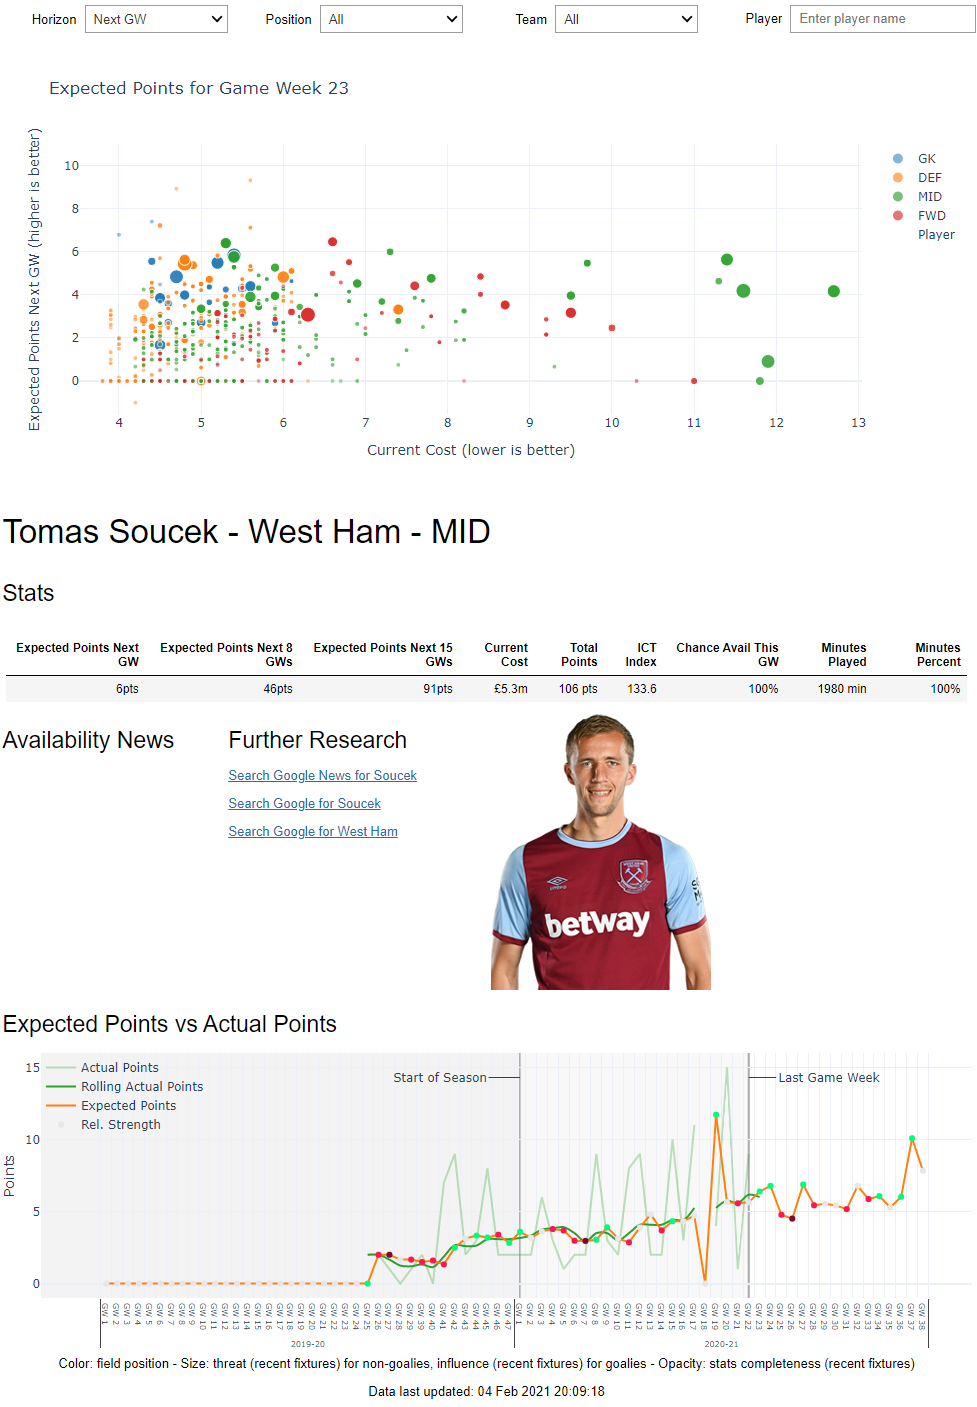
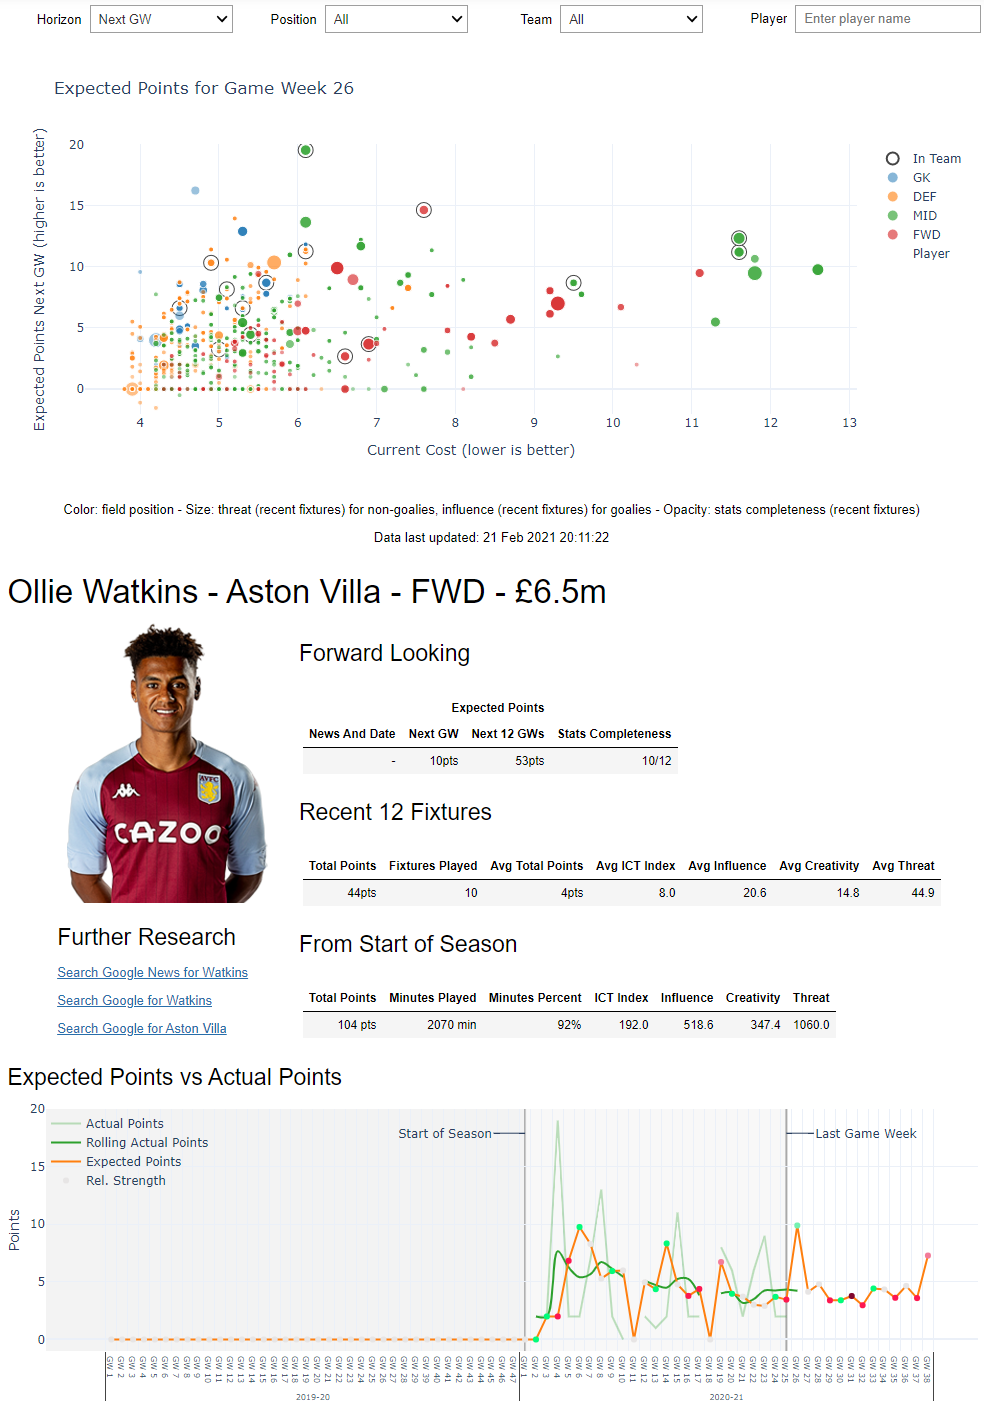
Fixes #15, #14: Updated player detail chart to added ICT averages and other data points to improve consistency with overall chart.

diff --git a/player_chart.py b/player_chart.py
@@ -7,6 +7,7 @@ from IPython.display import display
 from typing import Callable
 import traceback
 import urllib
+from collections import OrderedDict
 
 pio.templates.default = 'plotly_white'
 
@@ -16,6 +17,7 @@ MIN_POINT_SIZE = 5
 MIN_OPACITY = 0.4
 POSITION_COLORS = {'GK': 'rgba(31, 119, 180, 1)', 'DEF': 'rgba(255, 127, 14, 1)', 'MID': 'rgba(44, 160, 44, 1)', 'FWD': 'rgba(214, 39, 40, 1)'}
 FDR_COLOR_SCALE = [[0.0, 'rgb(1, 252, 122)'], [0.33, 'rgb(231, 231, 231)'], [0.66, 'rgb(255, 23, 81)'], [1.0, 'rgb(128, 7, 45)']]
+
 
 def interactive(func: Callable, arg_widgets_map: dict) -> Widget:
     """
@@ -103,12 +105,12 @@ def player_strength_by_horizon(player_eps: DF, players_gw_eps: DF, horizon: str,
             player = None
             player_code = None
             for ind in points.point_inds:
-                player = player_eps.iloc[ind]
-                player_code = player_eps.index[ind]
+                player = player_eps_chart.iloc[ind]
+                player_code = player_eps_chart.index[ind]
 
             if player is not None:
                 player_gw_eps = players_gw_eps.loc[player_code]
-                detail.children = tuple([display_player(player, player_gw_eps, ctx)])
+                detail.children = tuple([display_player(player, player_gw_eps, horizon, ctx)])
             else:
                 detail.children = tuple([])
 
@@ -129,8 +131,9 @@ def player_strength_by_horizon(player_eps: DF, players_gw_eps: DF, horizon: str,
     def get_player_eps_chart(player_eps: DF) -> DF:
         return (player_eps[
                     ['Name', 'Name and Short Team', 'Long Name', 'Team Name', 'Field Position', 'Current Cost', 'Total Points', 'Minutes Percent',
-                     'News And Date', 'ICT Index', 'Minutes Played', 'Avg Threat Recent Fixtures', 'Avg Influence Recent Fixtures',
-                     'Chance Avail This GW', 'Stats Completeness Percent', 'Profile Picture', 'Team Last Updated', 'Player Last Updated']
+                     'News And Date', 'Minutes Played', 'Total Points Recent Fixtures', 'Avg Total Points Recent Fixtures', 'Avg ICT Index Recent Fixtures',
+                     'Avg Influence Recent Fixtures', 'Avg Creativity Recent Fixtures', 'Avg Threat Recent Fixtures', 'ICT Index', 'Influence', 'Creativity', 'Threat',
+                     'Chance Avail This GW', 'Stats Completeness', 'Stats Completeness Percent', 'Profile Picture', 'Team Last Updated', 'Player Last Updated']
                     + [col for col in player_eps.columns if col.startswith('Expected Points ') or col.startswith('Fixtures ')]
                     + (['In Team?'] if 'In Team?' in player_eps.columns else [])]
                 # Add visualisation columns that need to be calculated on the unfiltered set.
@@ -139,8 +142,14 @@ def player_strength_by_horizon(player_eps: DF, players_gw_eps: DF, horizon: str,
                                                                   df.groupby('Field Position')['Avg Threat Recent Fixtures'].transform(lambda x: x / x.max() * MAX_POINT_SIZE),
                                                                   df['Avg Influence Recent Fixtures'] / df['Avg Influence Recent Fixtures'].max() * MAX_POINT_SIZE), MIN_POINT_SIZE)}))
 
+    def get_player_eps_formatted(player_eps_chart: DF) -> DF:
+        return (player_eps_chart
+                .pipe(ctx.dd.format)
+                [player_eps_chart.columns]
+                .astype(str))
+
     def get_labels(player_eps_chart: DF) -> S:
-        player_eps_formatted = player_eps_chart.pipe(ctx.dd.format)[player_eps_chart.columns].astype(str)
+        player_eps_formatted = player_eps_chart.pipe(get_player_eps_formatted)
 
         return (player_eps_formatted['Name and Short Team']
                 + ', ' + player_eps_formatted['Field Position']
@@ -148,9 +157,9 @@ def player_strength_by_horizon(player_eps: DF, players_gw_eps: DF, horizon: str,
                 + '<br>Exp. Points: ' + player_eps_formatted[f'Expected Points {horizon}']
                 + ', Total Points: ' + player_eps_formatted['Total Points']
                 + '<br>Minutes Percent: ' + player_eps_formatted['Minutes Percent']
-                + ', Stats Completeness (Recent Fixtures): ' + player_eps_formatted['Fixtures Played Recent Fixtures'] + f'/{ctx.player_fixtures_look_back}'
-                + np.where(player_eps_formatted['Field Position'] != 'GK', '<br>Average Threat (Recent Fixtures): ' + player_eps_formatted['Avg Threat Recent Fixtures'],
-                    '<br>Average Influence (Recent Fixtures): ' + player_eps_formatted['Avg Influence Recent Fixtures'])
+                + f', Stats Completeness (Recent {ctx.player_fixtures_look_back} Fixtures): ' + player_eps_formatted['Stats Completeness']
+                + np.where(player_eps_formatted['Field Position'] != 'GK', f'<br>Average Threat (Recent {ctx.player_fixtures_look_back} Fixtures): ' + player_eps_formatted['Avg Threat Recent Fixtures'],
+                           f'<br>Avg Influence (Recent {ctx.player_fixtures_look_back} Fixtures): ' + player_eps_formatted['Avg Influence Recent Fixtures'])
                 + ', ICT: ' + player_eps_formatted['ICT Index']
                 + '<br>Next: ' + player_eps_formatted[f'Fixtures Next 8 GWs'].map(lambda v: break_text(v, 4))
                 + '<br>News: ' + player_eps_formatted['News And Date']
@@ -184,7 +193,7 @@ def player_strength_by_horizon(player_eps: DF, players_gw_eps: DF, horizon: str,
     chart = FigureWidget(
         traces,
         layout={
-            'title': f'Expected Points from Game Week {ctx.next_gw} for {horizon}' if horizon != 'Next GW' else f'Expected Points for Game Week {ctx.next_gw}' ,
+            'title': f'Expected Points from Game Week {ctx.next_gw} for {horizon}' if horizon != 'Next GW' else f'Expected Points for Game Week {ctx.next_gw}',
             'xaxis': dict(title='Current Cost (lower is better)', showspikes=True, range=[min_cost, max_cost]),
             'yaxis': dict(title=f'Expected Points {horizon} (higher is better)', showspikes=True, range=[min_eps, max_eps]),
             'hovermode': 'closest',
@@ -205,7 +214,7 @@ def player_strength_by_horizon(player_eps: DF, players_gw_eps: DF, horizon: str,
 
     out = Output()
     detail = VBox([])
-    chart_and_detail = VBox([message, out, chart, detail, data_quality])
+    chart_and_detail = VBox([message, out, chart, data_quality, detail])
 
     return chart_and_detail
 
@@ -235,22 +244,54 @@ def show_eps_vs_cost(player_gw_next_eps_ext: DF, players_gw_team_eps_ext: DF, te
     return VBox([selectors, out])
 
 
-def display_player(player: S, player_gw_eps: DF, ctx: Context) -> Widget:
+def display_player(player: S, player_gw_eps: DF, horizon: str, ctx: Context) -> Widget:
+    def display_df(df_output: pd.DataFrame):
+        df_style = df_output.style
+        df_style = df_style.hide_index()
+
+        out_df = Output()
+        with out_df:
+            display(df_style)
+
+        return out_df
+
     def display_header(player: S) -> Widget:
         return HTML(
-            f'<h1>{player["Long Name"]} - {player["Team Name"]} - {player["Field Position"]}</h1>')
+            f'<h1>{player["Long Name"]} - {player["Team Name"]} - {player["Field Position"]} - {player["Current Cost"]}</h1>')
+
+    def get_player_fwd_stats(player: S, ctx: Context) -> DF:
+        next_gws = list(OrderedDict.fromkeys([list(ctx.next_gw_counts)[0], horizon, list(ctx.next_gw_counts)[-1]]))
+
+        return (  # Create data frame from series
+            DF(player).T
+                # Format columns
+                .pipe(ctx.dd.format)
+                # Select columns
+            [['News And Date'] + [f'Expected Points {next_gw}' for next_gw in next_gws] + ['Stats Completeness']]
+                # Create multi-level colums for Expected Points
+                .pipe(lambda df: df.T.set_index(
+                pd.MultiIndex.from_tuples([('Expected Points' if 'Expected Points' in col else '',
+                                            col.replace('Expected Points ', '')) for col in df.columns]))
+                      .T))
 
     def display_stats(player: S) -> Widget:
-        return VBox([HTML(
-            f'<h3>Stats</h3>'),
+        return VBox([
+            HTML(f'<h3>Forward Looking</h3>'),
             player
-                .pipe(get_player_stats, ctx)
+                .pipe(get_player_fwd_stats, ctx)
+                .pipe(display_df),
+            HTML(f'<h3>Recent {ctx.player_fixtures_look_back} Fixtures</h3>'),
+            player
+                .pipe(DF).T[['Total Points Recent Fixtures', 'Fixtures Played Recent Fixtures',
+                             'Avg Total Points Recent Fixtures', 'Avg ICT Index Recent Fixtures', 'Avg Influence Recent Fixtures',
+                             'Avg Creativity Recent Fixtures', 'Avg Threat Recent Fixtures']]
+                .pipe(ctx.dd.format)
+                .pipe(lambda df: df.rename(columns={x: x.replace(' Recent Fixtures', '') for x in df.columns}))
+                .pipe(display_df),
+            HTML(f'<h3>From Start of Season</h3>'),
+            player
+                .pipe(DF).T[['Total Points', 'Minutes Played', 'Minutes Percent', 'ICT Index', 'Influence', 'Creativity', 'Threat']]
                 .pipe(ctx.dd.display, footer=False, descriptions=False, index=False)])
-
-    def display_news(player: S) -> Widget:
-        return HTML(value=
-                            f'<h3>Availability News</h3>'
-                            f'<p>{player["News And Date"]}</p>')
 
     def display_research(player: S) -> Widget:
         player_query = urllib.parse.quote(f'{player["Long Name"]} FPL')
@@ -264,7 +305,7 @@ def display_player(player: S, player_gw_eps: DF, ctx: Context) -> Widget:
          f'<a href="https://www.google.co.uk/search?q={team_query}&ie=UTF-8" target="_blank">Search Google for {player["Team Name"]}</a>'
          '</div>'))
 
-    def display_player(player: S) -> Widget:
+    def display_player_pic(player: S) -> Widget:
         img_url = f'https://resources.premierleague.com/premierleague/photos/players/110x140/p{player["Profile Picture"].split(".")[0]}.png'
         return HTML(layout=Layout(padding='0 0 0 50px'), value=f'<img src="{img_url}" />')
 
@@ -281,7 +322,6 @@ def display_player(player: S, player_gw_eps: DF, ctx: Context) -> Widget:
                 .assign(**{'Season Game Week': lambda df: df['Season'] + ', GW ' + df['Game Week']}))
 
         x_axis = [data['Season'], data['Game Week']]
-        # x_axis = data['Season Game Week']
 
         eps_trace = Scatter(x=x_axis,
                             y=data['Expected Points'],
@@ -336,7 +376,7 @@ def display_player(player: S, player_gw_eps: DF, ctx: Context) -> Widget:
             ]
         )
         return VBox([HTML('<h3>Expected Points vs Actual Points</h3>'),
-                             FigureWidget([ftp_trace, ftpr_trace, eps_trace, fs_trace], layout=layout)])
+                     FigureWidget([ftp_trace, ftpr_trace, eps_trace, fs_trace], layout=layout)])
 
     if player is None:
         return None
@@ -345,8 +385,9 @@ def display_player(player: S, player_gw_eps: DF, ctx: Context) -> Widget:
 
     return VBox([
         display_header(player_formatted),
-        display_stats(player),
-        HBox([display_news(player_formatted),
-                      display_research(player), display_player(player)]),
+        HBox([
+            VBox([display_player_pic(player), display_research(player)], layout=Layout(flex='1 1 30%')),
+            VBox([display_stats(player)], layout=Layout(flex='1 1 70%'))],
+            layout=Layout(display='flex', flex_flow='row', align_items='stretch')),
         display_eps(player_gw_eps)
     ])
